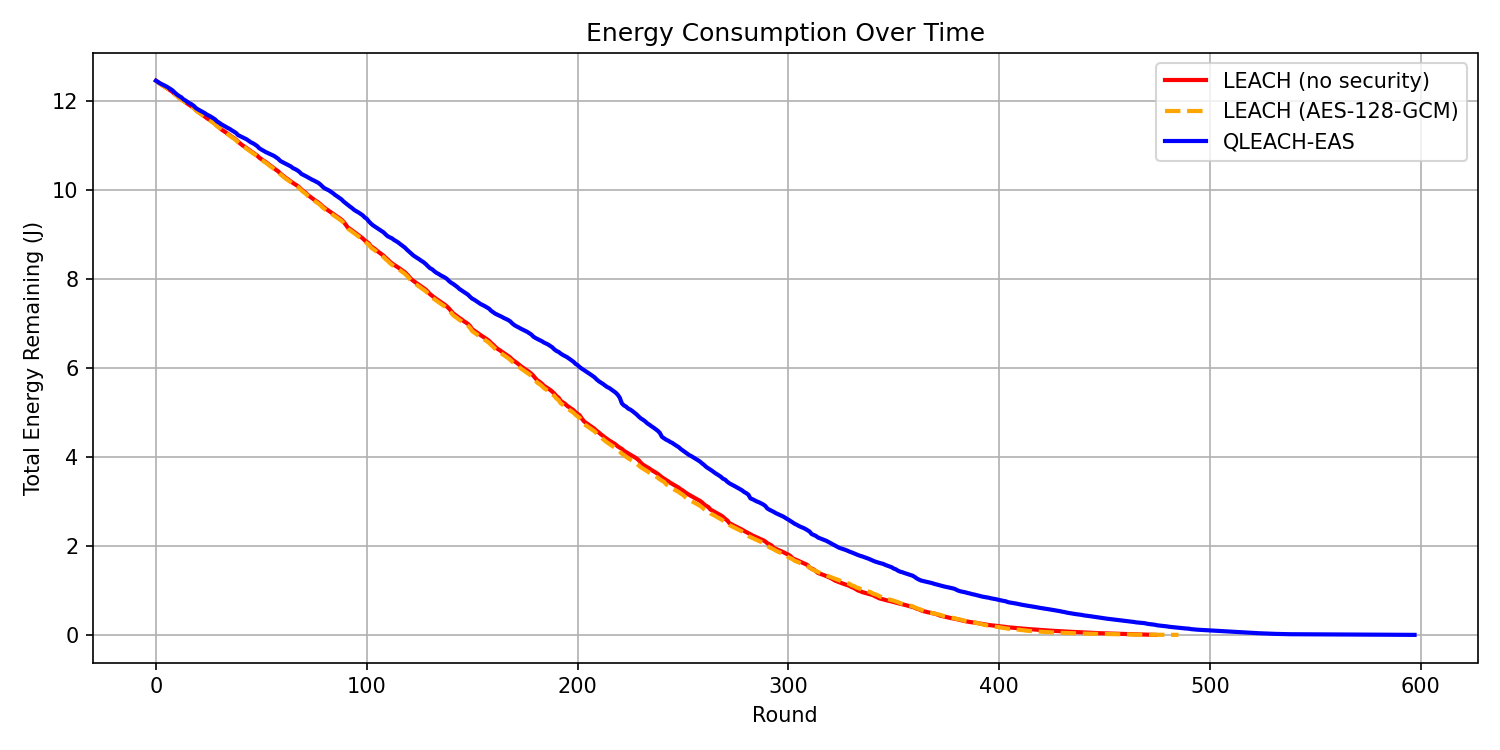
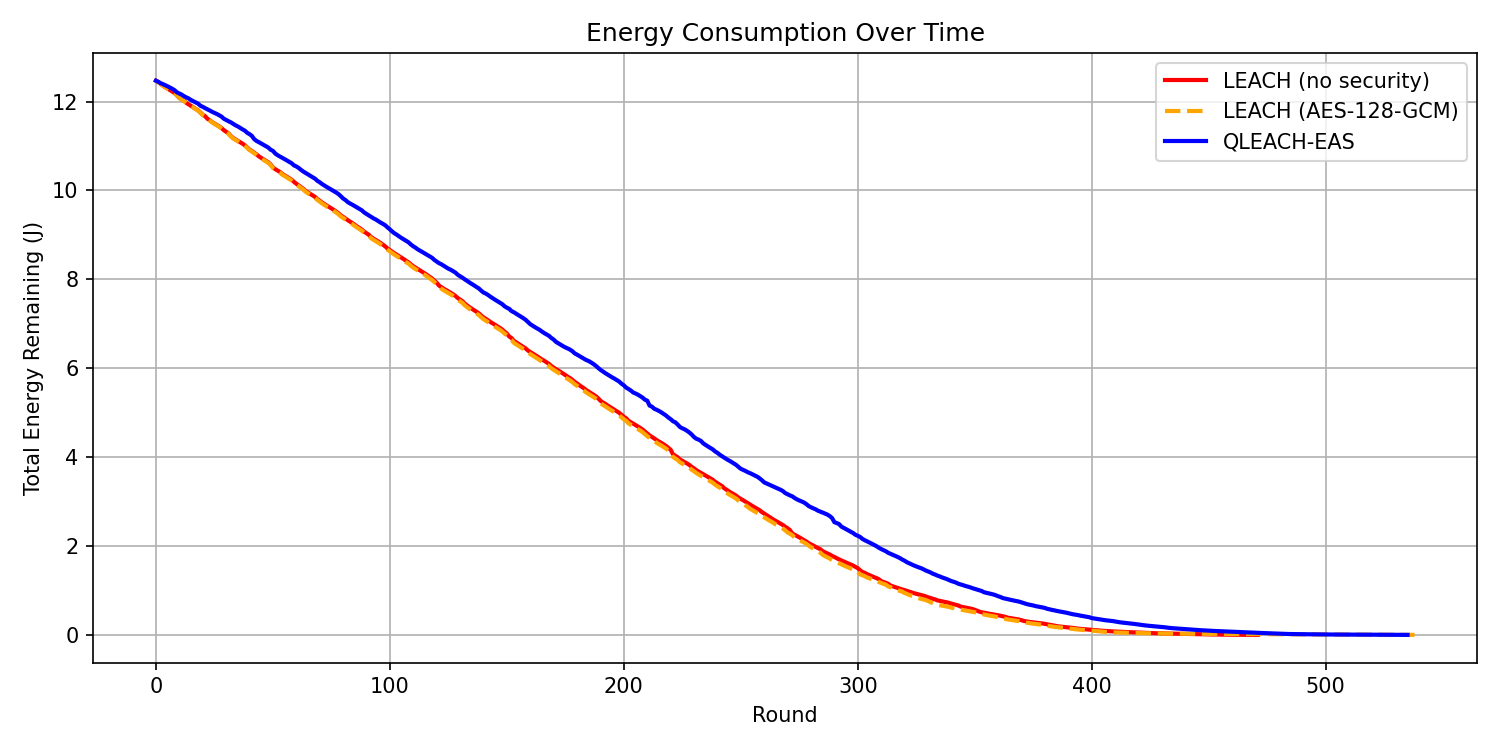
20 runs edition

diff --git a/sim/src/main.py b/sim/src/main.py
@@ -1,41 +1,85 @@
 """
-Here I run the full simulation comparing three scenarios:
-  A: LEACH without security
-  B: LEACH with AES-128-GCM (all packets)
-  C: QLEACH-EAS (Q-learning CH + routing, EAS encryption)
-Results are printed and saved as graphs.
+Here I run the full simulation comparing three scenarios over 20 runs.
+Each run uses a different random seed to ensure statistical validity.
+Results are reported as mean ± standard deviation across all runs.
 """
 
 import os
-from network     import Network
-from leach       import run_leach
-from qleach_eas  import run_qleach_eas
-from plot        import plot_alive_nodes, plot_energy, \
-                        plot_security_overhead
-from security    import security_overhead_ratio, PACKET_SIZE
+import numpy as np
+from network  import Network
+from leach    import run_leach
+from qleach_eas import run_qleach_eas
+from plot     import plot_alive_nodes, plot_energy, plot_security_overhead
+from security import security_overhead_ratio, PACKET_SIZE
 
 os.makedirs('results', exist_ok=True)
 
-# ── Scenario A: LEACH no security ───────────────────────
-net_a = Network()
-run_leach(net_a, secure=False)
-net_a.print_summary("LEACH — no security")
+N_RUNS = 20
 
-# ── Scenario B: LEACH with AES-128-GCM ──────────────────
-net_b = Network()
-run_leach(net_b, secure=True)
-net_b.print_summary("LEACH — with AES-128-GCM")
+# ── Storage ─────────────────────────────────────────────
+results = {
+    'leach':     {'first': [], 'half': [], 'lifetime': [], 'pdr': []},
+    'leach_aes': {'first': [], 'half': [], 'lifetime': [], 'pdr': []},
+    'qleach':    {'first': [], 'half': [], 'lifetime': [], 'pdr': []},
+}
 
-# ── Scenario C: QLEACH-EAS ──────────────────────────────
-net_c = Network()
-run_qleach_eas(net_c)
-net_c.print_summary("QLEACH-EAS")
+# keep last run histories for plotting
+last = {'leach': None, 'leach_aes': None, 'qleach': None}
 
-# ── Security overhead ────────────────────────────────────
+# ── 20 Runs ──────────────────────────────────────────────
+for run in range(N_RUNS):
+    print(f"Run {run + 1}/{N_RUNS}...", end='\r')
+
+    # Scenario A: LEACH no security
+    net_a = Network(seed=run)
+    run_leach(net_a, secure=False)
+    results['leach']['first'].append(net_a.first_node_death())
+    results['leach']['half'].append(net_a.half_nodes_dead())
+    results['leach']['lifetime'].append(net_a.network_lifetime())
+    results['leach']['pdr'].append(net_a.packet_delivery_ratio())
+    last['leach'] = net_a
+
+    # Scenario B: LEACH with AES-128-GCM
+    net_b = Network(seed=run)
+    run_leach(net_b, secure=True)
+    results['leach_aes']['first'].append(net_b.first_node_death())
+    results['leach_aes']['half'].append(net_b.half_nodes_dead())
+    results['leach_aes']['lifetime'].append(net_b.network_lifetime())
+    results['leach_aes']['pdr'].append(net_b.packet_delivery_ratio())
+    last['leach_aes'] = net_b
+
+    # Scenario C: QLEACH-EAS
+    net_c = Network(seed=run)
+    run_qleach_eas(net_c)
+    results['qleach']['first'].append(net_c.first_node_death())
+    results['qleach']['half'].append(net_c.half_nodes_dead())
+    results['qleach']['lifetime'].append(net_c.network_lifetime())
+    results['qleach']['pdr'].append(net_c.packet_delivery_ratio())
+    last['qleach'] = net_c
+
+print(f"Done. {N_RUNS} runs completed.     ")
+
+# ── Print Results ────────────────────────────────────────
+def summary(label, r):
+    print(f"\n── {label} ───────────────────────────────")
+    print(f"  First node death  : "
+          f"{np.mean(r['first']):.1f} ± {np.std(r['first']):.1f}")
+    print(f"  50% nodes dead    : "
+          f"{np.mean(r['half']):.1f} ± {np.std(r['half']):.1f}")
+    print(f"  Network lifetime  : "
+          f"{np.mean(r['lifetime']):.1f} ± {np.std(r['lifetime']):.1f}")
+    print(f"  Packet delivery   : "
+          f"{np.mean(r['pdr'])*100:.1f}% ± {np.std(r['pdr'])*100:.1f}%")
+    print("─────────────────────────────────────────────")
+
+summary("LEACH — no security",    results['leach'])
+summary("LEACH — with AES-128",   results['leach_aes'])
+summary("QLEACH-EAS",             results['qleach'])
+
 ratio = security_overhead_ratio(PACKET_SIZE)
 print(f"\n  AES-128-GCM overhead  : {ratio*100:.2f}%")
 
-# ── Plots ────────────────────────────────────────────────
-plot_alive_nodes(net_a, net_b, net_c)
-plot_energy(net_a, net_b, net_c)
+# ── Plots (last run) ─────────────────────────────────────
+plot_alive_nodes(last['leach'], last['leach_aes'], last['qleach'])
+plot_energy(last['leach'], last['leach_aes'], last['qleach'])
 plot_security_overhead()

diff --git a/sim/src/network.py b/sim/src/network.py
@@ -56,13 +56,13 @@ class BaseStation:
         return 0.0
 
 class Network:
-    def __init__(self):
-        np.random.seed(SEED)
+    def __init__(self, seed=SEED):
+        np.random.seed(seed)
         self.bs    = BaseStation()
         self.nodes = self._create_nodes()
         self.rounds = ROUNDS
+        self.field_size = FIELD_SIZE
 
-        # per-round stats
         self.alive_history  = []
         self.energy_history = []
         self.dead_history   = []
@@ -117,6 +117,11 @@ class Network:
             if a == 0:
                 return i
         return len(self.alive_history)
+
+    def packet_delivery_ratio(self):
+        sent    = sum(n.packets_sent    for n in self.nodes)
+        dropped = sum(n.packets_dropped for n in self.nodes)
+        return sent / max(sent + dropped, 1)
 
     def print_summary(self, label="Network"):
         print(f"\n── {label} ───────────────────────────────")

diff --git a/sim/src/energy.py b/sim/src/energy.py
@@ -1,7 +1,6 @@
 """
 Here I save the power consumption parameters for all components.
-Uses the first order radio model (Heinzelman et al. 2000),
-standard for WSN and LEACH simulations.
+Uses the first order radio model (Heinzelman et al. 2000) which is a standard for WSN and LEACH simulations.
 AES-128-GCM overhead modelled for ESP32-C3.
 """
 

diff --git a/sim/src/leach.py b/sim/src/leach.py
@@ -83,6 +83,6 @@ def run_leach(network, secure=False):
         if not alive:
             break
         heads = elect_cluster_heads(alive, r)
-        delivered, dropped = assign_and_transmit(network.nodes, heads, secure)
+        assign_and_transmit(network.nodes, heads, secure)
         transmit_to_bs(heads, network.bs, secure)
         network.record_round()